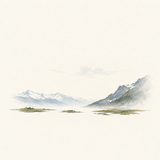
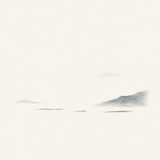
Reduce negative-space artwork to sparse abstract fragments
Strict subject-preservation instructions encouraged concrete miniature scenery even in the negative-space preset. Allow source omission and merging only for its explicit abstraction mode, increase the empty-paper target, and remove detailed contour requirements from both variants and the standalone skill.

Changed region(s): [[0.5312, 0.4688, 0.9375, 0.7188], [0.0625, 0.5625, 0.5312, 0.7188]]

diff --git a/packages/style-registry/src/index.ts b/packages/style-registry/src/index.ts
@@ -36,6 +36,7 @@ export type AppStyleManifest = {
   defaultVariant: string;
   defaultQuality: ImageQuality;
   outputSuffix: string;
+  sourceAbstraction?: "sparse-fragments";
   variants: StyleVariant[];
 };
 
@@ -81,6 +82,8 @@ function parseManifest(input: unknown, source: string): AppStyleManifest {
     typeof value.defaultVariant !== "string" ||
     !["low", "medium", "high"].includes(value.defaultQuality ?? "") ||
     typeof value.outputSuffix !== "string" ||
+    (value.sourceAbstraction !== undefined &&
+      value.sourceAbstraction !== "sparse-fragments") ||
     !Array.isArray(value.variants) ||
     value.variants.length === 0
   ) {
@@ -153,7 +156,9 @@ export function compileStylePrompt(options: {
     customInstruction
       ? `Additional user instruction, apply only when consistent with this preset: ${customInstruction}`
       : "",
-    "Preserve the original aspect ratio and crop direction. Keep every major subject tied to the source: preserve its identity or type, count, pose or direction, general position, occlusion order, and the main spatial relationships required by this preset. Do not add unrelated objects or merge content from other images.",
+    style.sourceAbstraction === "sparse-fragments"
+      ? "Preserve the original aspect ratio and crop direction. Use the source only to derive a few abstract fragments, representative muted colors, broad directional gestures, and relative visual balance. Omit, merge, interrupt, or flatten source objects and contours as needed for the preset's negative-space target; do not reconstruct every subject, its count, complete silhouette, internal features, or full scene depth. Do not add unrelated motifs or merge content from other images."
+      : "Preserve the original aspect ratio and crop direction. Keep every major subject tied to the source: preserve its identity or type, count, pose or direction, general position, occlusion order, and the main spatial relationships required by this preset. Do not add unrelated objects or merge content from other images.",
     "Generate only one standalone stylized effect image that fills the complete source frame. Do not create a comparison layout, border, title, caption, numbering, signature, watermark, logo, seal, frame, or other text unless it is explicitly required by the selected style preset or by the user's instruction.",
   ]
     .filter(Boolean)

diff --git a/packages/style-registry/src/index.test.ts b/packages/style-registry/src/index.test.ts
@@ -50,3 +50,30 @@ test("rejects unknown style and variant ids", () => {
     }),
   );
 });
+
+test("allows source reduction for both negative-space variants without strict reconstruction", () => {
+  for (const variantId of ["quiet-fragments", "poetic-title"]) {
+    const { prompt } = compileStylePrompt({
+      styleId: "minimal-negative-space-comparison",
+      variantId,
+    });
+    assert.match(prompt, /Omit, merge, interrupt, or flatten/);
+    assert.doesNotMatch(prompt, /preserve its identity or type, count/);
+    assert.match(prompt, /Preserve the original aspect ratio/);
+    assert.match(prompt, /Do not add unrelated motifs/);
+  }
+});
+
+test("keeps subject preservation for every other preset", () => {
+  for (const style of listPublicStyles()) {
+    if (style.id === "minimal-negative-space-comparison") continue;
+    for (const variant of style.variants) {
+      const { prompt } = compileStylePrompt({
+        styleId: style.id,
+        variantId: variant.id,
+      });
+      assert.match(prompt, /preserve its identity or type, count/);
+      assert.doesNotMatch(prompt, /Omit, merge, interrupt, or flatten/);
+    }
+  }
+});

diff --git a/skills/minimal-negative-space-comparison/references/style-guide.md b/skills/minimal-negative-space-comparison/references/style-guide.md
@@ -4,23 +4,23 @@
 
 参考由真实风景照片与下方提炼效果组成。下方没有复现整幅照片，而是保留少量识别线索：左侧极淡雪山轮廓、右侧较深斜向山体、下方细长橄榄绿湿地色片，以及上方几乎消散的云影。大面积蓝天、完整水面与前景地貌被暖米白空场替代，景物之间通过空白连接。
 
-山体边缘有清楚与淡出的交替，内部是低对比细颗粒，呈现薄透、干擦或轻水洗般的哑光感。仅凭图片不能确定具体软件或工艺；复现目标是选择性保留、降密度与边缘消隐的视觉结果，不宣称采用某一滤镜。底部英文衬线题名小、轻、居中，与景物保持宽松距离。
+重点是大幅舍弃与概括：右山接近一块只有少数转折的斜片，左侧山脉压成极薄淡痕，湿地只是几条错开的细长色片。不能把参考理解成“在白纸上精细画一幅较小的山水”。山体边缘有清楚与淡出的交替，内部仅有低对比细颗粒。仅凭图片不能确定具体软件或工艺；目标是视觉结果，不宣称采用某一滤镜。底部英文衬线题名小、轻、居中，与景物保持宽松距离。
 
 ## 可迁移规则
 
-- **留白主导**：风景建议约 65%–85% 为连续暖米白空场，接近 `#F3F0E8`。不要把完整照片缩小后作为矩形贴在白纸上；主体应融入空场。近景人物、动物或产品可降低留白比例以保留识别性。
-- **提炼源图**：选 2–4 个视觉组，保留最有辨识度的轮廓与主次关系。允许压缩环境、以空白替代大片天空或地面；不能镜像、交换左右、改变遮挡或删除承担叙事的主体。
-- **有机薄色片**：从原图选 2–4 个综合色，降低饱和度与明暗反差。示例中的灰蓝、岩灰、橄榄绿不是固定色板；建筑或服饰仍保留可辨色相，不统一染成蓝绿。
-- **选择性虚实**：保留决定身份的主轮廓与结构转折，次要边缘、远景与局部表面淡入纸色。不要全局高斯模糊、均匀羽化每条边或擦除关键部件。
+- **留白主导**：目标为整个效果画幅约 85%–92% 的连续、近乎均匀暖米白空场，接近 `#F3F0E8`。真正有色笔触与色片合计约占 8%–15%，按实际着色面积计，不按景物外接矩形计；题名字形另计。满幅淡色、云雾、低对比纹理不算留白。不要把完整照片缩小贴在白纸上。此目标同样适用于近景题材，不因保存五官零件而扩大景物面积。
+- **提炼源图**：只取代表色、主要方向、轻重与大致左右关系，将源图压成 3–5 个分离片形、薄色痕或淡影。允许省略次要对象、合并重复对象、断开轮廓、压平景深，无需逐项保留身份、数量、遮挡、完整轮廓与部件；不得增加无关题材。
+- **有机薄色片**：从原图选 2–3 个综合色，降低饱和度与反差。每个片形仅留一两处方向转折，不追踪完整山脊或闭合物体剪影。示例中的灰蓝、岩灰、橄榄绿不是固定色板；建筑或服饰也只作为少量色彩记忆，不统一染成蓝绿。
+- **选择性虚实**：少数片形边缘可清楚，另一些边缘淡入纸色；可舍弃决定具体身份的细节。不要以全局高斯模糊或均匀羽化代替抽象，也不要把精细风景画完后只擦淡边缘。
 - **轻且平的质感**：允许极轻细颗粒、干擦与透明薄色，避免明显纸纹、污渍、颜料堆积、大片潮边、流淌、返花与飞溅。不做剪纸层叠、悬浮投影或三维景观基座。
 - **疏朗节奏**：以少量长短不同、断续错开的色片组织横向节奏，视觉组之间保留空白。不把所有对象改成规则圆、椭圆、圆角矩形，不增加装饰小人、飞鸟、太阳或树木。
 
 ## 题材适配
 
-- 风景：山脊、岸线、云影、植被带化为疏朗轮廓与断续色片；保留左右、远近与走势，不把所有风景变成雪山湿地。
-- 建筑、城市与室内：保留主体外轮廓、屋顶或关键开口，减少重复窗格与材质；以空场隔开次要环境，不增加山水元素。
-- 人物、动物：保留数量、姿态、朝向、脸部识别线索与关键花纹；从衣物、毛色和背景提色。弱化背景但不抹掉面部，不把近景缩成不可辨残片。
-- 产品、器物：保持功能轮廓、连接与部件关系，弱化表面杂讯和非必要背景；不通过消隐切断关键结构。
+- 风景：山体压成一两块斜片，岸线或植被化为薄痕，云可只留一抹淡影；省去完整山脊、岩纹、雪纹、草丝、反射与连续地平线。不把所有风景变成雪山湿地。
+- 建筑、城市与室内：取斜向、竖向或开口节奏为少量片形，省略窗格与完整立面，不增加山水元素。
+- 人物、动物：只取姿态方向、色彩或轻重节奏，可省略五官、毛发与完整剪影，不追求身份肖似，也不添加其他角色。
+- 产品、器物：取主轴、综合色或局部形态暗示，允许省略零件与完整外形；本风格不承担产品结构保真展示。
 
 ## 诗题模式
 
@@ -28,8 +28,8 @@
 
 ## 生成提示词
 
-填入识别摘要、留白映射和题名模式：
+填入意象摘要、留白映射和题名模式：
 
-> 将当前照片转为“简约留白”艺术效果。照片是唯一内容来源，保持原画幅比例与方向。识别摘要：〔主体身份、数量、姿态朝向、主轮廓、相对位置、遮挡、关键结构与空间关系〕。留白映射：〔连续暖白区、2–4 个视觉组、源片少量低饱和色、清楚或局部消隐的边缘、可删除的环境纹理〕。暖米白空场主导，风景通常留白约 65%–85%；将源图景物提炼为稀疏、无矩形边框的有机轮廓与薄透色片，保留左右、远近和主次，不沿用示例题材。近景主体保持可辨尺度。降低环境密度、饱和度与细节，用少量哑光灰色调和原片代表色；允许极轻细颗粒、干擦与透明薄色。关键轮廓清楚，次要边缘选择性淡入纸色；色片之间以空白连接，避免全局模糊与均匀羽化。天空地面可大面积融入空场，不保留铺满全图的实色背景。题名模式：〔无文字；或底部一行小号深灰衬线诗题及确切文本〕。禁止换主体、改变关键关系、新增景物、照片仅降饱和、硬边矩形贴片、规则几何卡通、粗描边、复杂湿画法、飞溅、油画厚涂、纸艺层叠、投影、3D 与过重纸纹。无印章、Logo、水印、署名、外框或多余文字。只生成单张效果，不复制原图，不制作内部上下对照。
+> 将当前照片提炼为高度概括的简约留白艺术。照片是唯一内容来源，保持原画幅比例与方向。意象摘要：〔少量代表色、主要方向、轻重、大致左右关系与要舍弃的对象细节〕。留白映射：〔85%–92% 近乎均匀暖米白空场、3–5 个分离片形、2–3 种源图低饱和色〕。实际有色景物面积只占约 8%–15%，按真正笔触与色片计，不按外接矩形计，不用满幅淡雾冒充空白。片形集中中下部，每片仅一两处方向转折，极薄色痕之间保留大段纸色。允许省略次要对象、合并重复对象、断开轮廓与压平景深，不逐物描绘，不要求保留数量、完整剪影或内部结构。只用少量形色线索暗示源图，不套用参考雪山湿地。色片薄、平、哑光，仅极轻颗粒，少数边缘清楚，其余局部消隐。省去山石纹理、雪纹、枝叶、草丝、窗格、五官、零件、反射、体积明暗与连续地平线，不制作精细微缩水彩风景。题名模式：〔无文字；或底部一行小号深灰衬线诗题及确切文本〕。禁止无关景物、全局模糊、完整照片贴片、规则几何卡通、粗描边、大片晕染、飞溅、油画厚涂、纸艺投影、3D 与重纸纹。无印章、Logo、水印、署名、外框或多余文字。只生成单张效果，不复制原图，不制作内部对照。
 
-重试只针对观察到的偏差，例如：“完整蓝天和水面填满了画幅；将这些区域融入暖米白空场，保留左右山形与湿地色片，关键山脊保持清楚，仅淡化次要边缘。”
+重试只针对观察到的偏差，例如：“山体过于完整，雪纹和水面仍被具体刻画；删去全部内部结构与连续地景，只留一块略有斜势的灰蓝片、一道极淡痕迹与几条断续细色片，实际有色面积压到约 8%–15%，其余恢复近乎均匀暖米白。”

diff --git a/README.md b/README.md
@@ -54,7 +54,7 @@ npm run check
 | `layered-papercraft-comparison` | 层叠纸张、微缩景观基座、柔和阴影与大留白 | `使用 $layered-papercraft-comparison 按立体剪纸风处理全部图片` |
 | `art-postcard-comparison` | 象牙白旧纸、小型丝网印刷插画、邮戳与大量留白 | `使用 $art-postcard-comparison 按艺术明信片风处理全部图片` |
 | `washi-tape-collage-comparison` | 半透明和纸胶带、手撕边、叠色与暖白留白 | `使用 $washi-tape-collage-comparison 按纸胶带拼贴风处理全部图片` |
-| `minimal-negative-space-comparison` | 暖白空场、低饱和薄色片、有机轮廓与局部消隐，可选衬线诗题 | `使用 $minimal-negative-space-comparison 按简约留白风格处理全部图片` |
+| `minimal-negative-space-comparison` | 极大暖白留白、极少量断续抽象片形，可选衬线诗题 | `使用 $minimal-negative-space-comparison 按简约留白风格处理全部图片` |
 
 ## 使用方式
 
